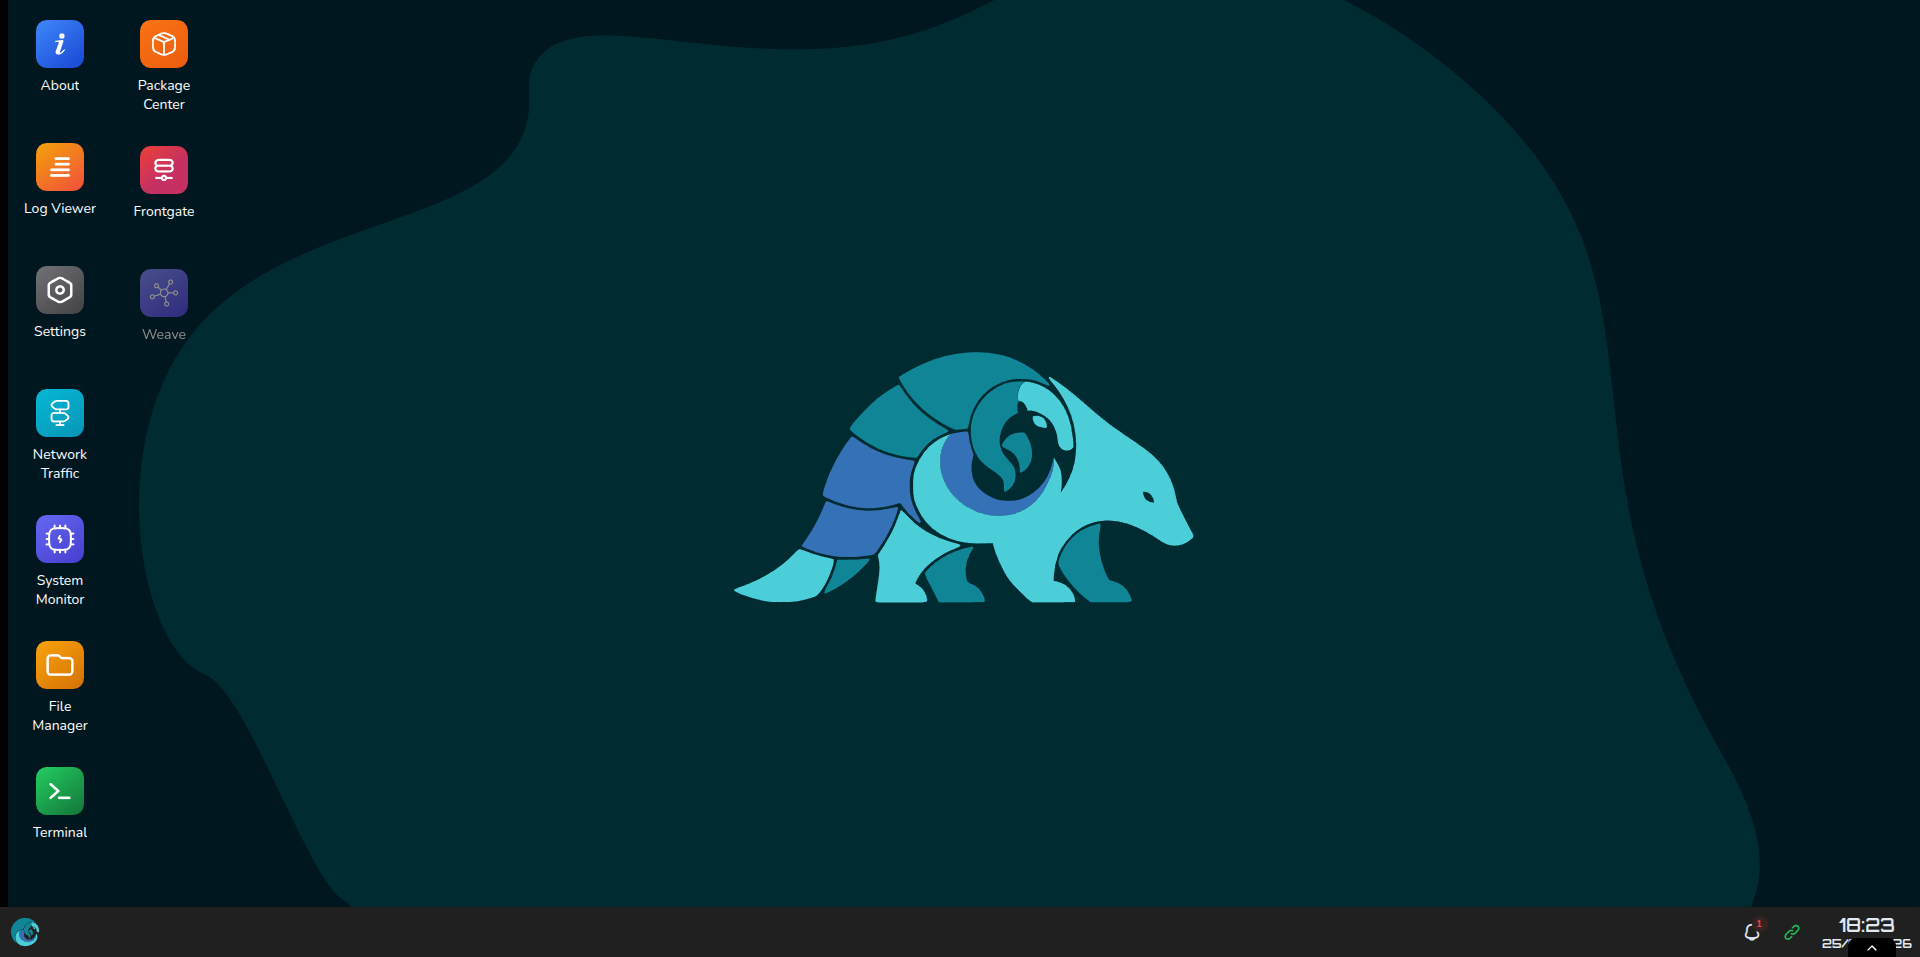
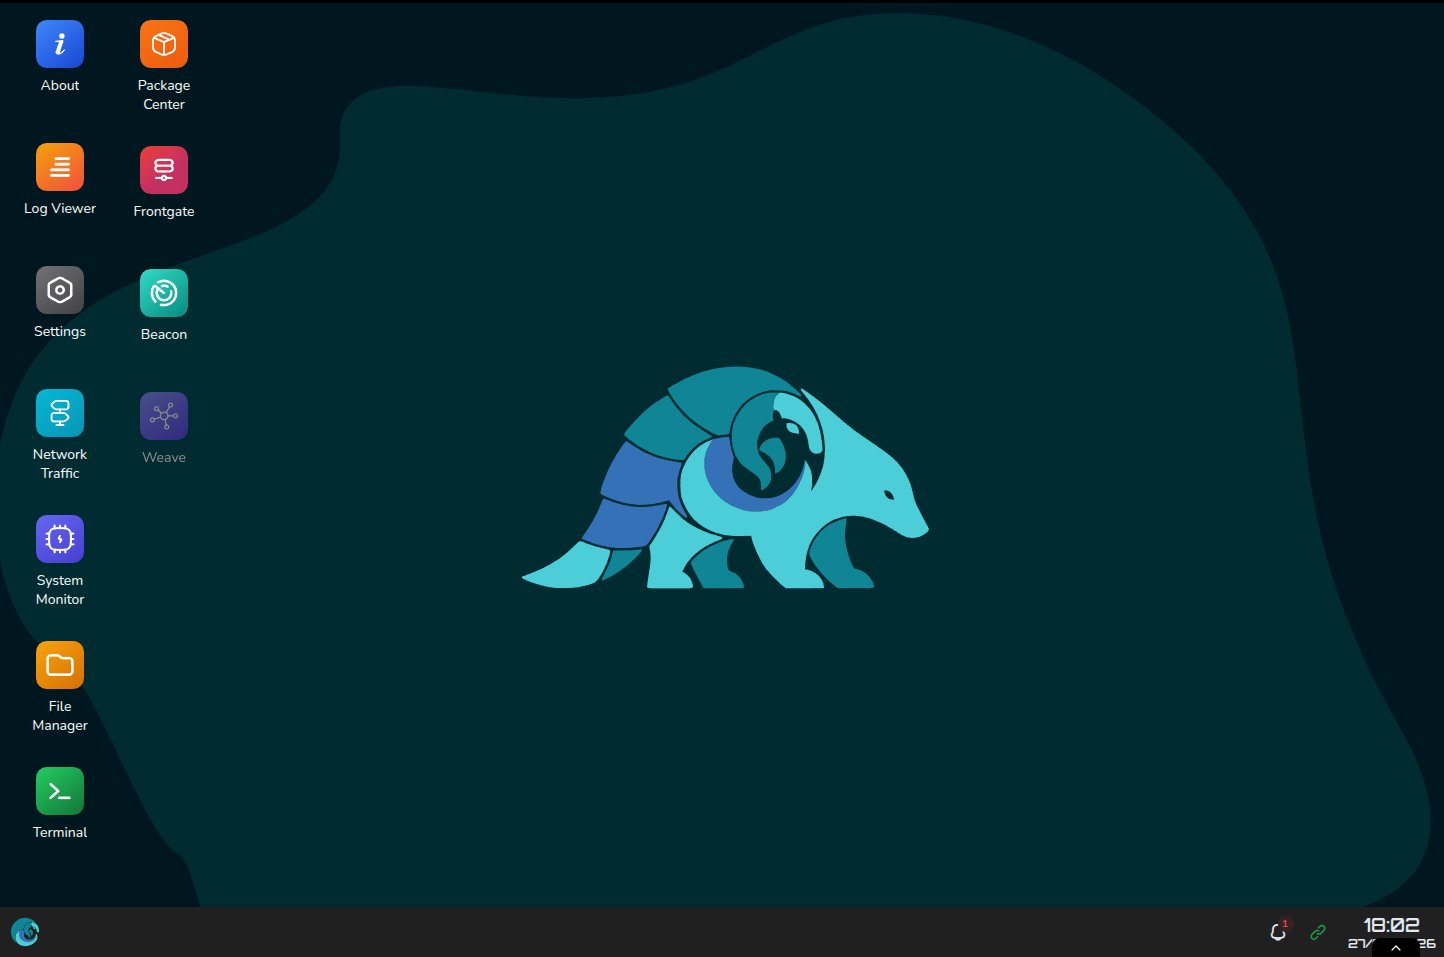
docs: update memory bank, README, and TODO for Frontgate Phase 2 + Beacon
- Add version history entries for NmxMenuButton divider, filterItem,
  FgCertPendingResetWorker, Beacon addon
- Update progress.md version table
- Update activeContext.md Recent Changes
- Add Beacon to system addons list and directory structure in README
- Update TODO.md with NmxMenuButton loading state entry
- Update screenshot

diff --git a/.claude/memory/progress.md b/.claude/memory/progress.md
@@ -136,12 +136,12 @@
 
 | Package | Version | Milestone |
 |---------|---------|-----------|
-| frontend | 0.64.0 | M4 (Frontgate Certificate tab, action menu, delete confirm) |
+| frontend | 0.66.0 | M4 (Frontgate cert filterItem, NmxMenuButton dividerIndexes, Beacon addon scaffold) |
 | @namorix/core | 0.51.0 | M4 (markupToHtml ReactNode, certificateById route, dateOnly) |
-| @namorix/styles | 0.43.0 | M4 (menu-button SCSS, icomoon rebuild, frontgate/blocked SCSS) |
-| @namorix/ui | 0.31.0 | M4 (NmxMenuButton Floating UI, NmxAlertDialog markupToHtml) |
+| @namorix/styles | 0.44.1 | M4 (menu button divider SCSS, button/frontgate tweaks) |
+| @namorix/ui | 0.33.0 | M4 (NmxMenuButton dividerIndexes prop, divider value+position) |
 | Namorix.Core | 0.52.0 | M4 (DataBasePath centralization, DataPaths constants) |
-| Namorix.Server | 0.55.0 | M4 (Certificate lifecycle API, pipeline separation, self-signed cert) |
+| Namorix.Server | 0.57.0 | M4 (FgCertPendingResetWorker, Pending→Error on startup) |
 
 ## Version Rules
 
@@ -177,6 +177,20 @@
 - frontend 0.63.0 → 0.64.0: NEW: `addons/Frontgate/FrontgateCertificate.tsx` — full certificate tab (NmxDataTable with domain/issuer/type/status-expiry/action columns, NmxMenuButton action menu with filterItem for Renew/Retry/Download/Delete, clickable rows → detail NmxAlertDialog with NmxMetaList, delete with confirmation dialog, toast feedback, renderType/renderStatus/renderExpiry helpers). NEW: `addons/Frontgate/Frontgate.types.ts` — FrontgateErrorCodes enum. MODIFIED: `addons/Frontgate/frontgate.controller.ts` — CertificateItem type with status/isInUse, deleteCertificate method, certificateById route. `addons/Frontgate/Frontgate.tsx` — minor updates. `i18n/locales/en.json` — 44-line certificate section (titleInformation, actions, fields, statusValues/inUseValues, options, feedback). `addons/Frontgate/FrontgateReverseProxy.tsx` — minor updates. Various taskbar/window files — unused import cleanup. `frontend/public/frontgate.html` — frontgate standalone landing page (nmx-card, nmx-meta-list, nmx-icon-box from theme system).
 - Namorix.Core 0.51.0 → 0.52.0: NEW: `Constants/DataPaths.cs` — central path constants. MODIFIED: `Config/AppConfig.cs` — DataBasePath property from appsettings. `Extensions/ApplicationBuilderExtensions.cs`, `Extensions/ServiceCollectionExtensions.cs` — DataBasePath integration. `FlatFile/FlatFileOptions.cs` — removed BasePath (uses shared DataBasePath). `FlatFile/FlatFileStore.cs` — DataDirectory integration. `IO/DataDirectory.cs` — uses AppConfig.DataBasePath.
 - Namorix.Server 0.54.0 → 0.55.0: NEW: `Models/FgCertificate.cs` — FgCertificateStatus enum (Active/Pending/Error) + Status property. `Infrastructure/SelfSignedCertificateProvider.cs` — auto-gen PFX when HttpsPort > 0 without SslCertPath, saves to data/pki/. `Migrations/20260727063316_AddFgCertificateStatus.cs` — adds Status column to FgCertificates. MODIFIED: `Controllers/FrontgateController.cs` — DeleteCertificate endpoint (DELETE /certificates/{id}), ListCertificates removed .ToString() (JsonStringEnumConverter handles serialization), added isInUse = ReverseProxyRules.Any(). `Persistence/AppDbContext.cs` — FgCertificateStatus config (HasConversion<string>, HasMaxLength(20)). `Program.cs` — pipeline separation (UseWhen: API port full pipeline, proxy ports only ForceSsl + YARP + static). `Config/BackendConfig.cs` — HttpPort, HttpsPort, SslCertPath, SslCertPassword. `appsettings.json` — HttpPort/HttpsPort config.
+
+### 2026-07-27 — Frontgate Phase 2: Certificate pagination, NmxSelect description, Source field
+
+- @namorix/ui 0.31.0 → 0.32.0: MODIFIED: `Primitives/NmxSelect.tsx` — `NmxSelectData` added `description?: string` field. `NmxSelect` renders `nmx-select__option-description` span in dropdown when description present.
+- @namorix/styles 0.43.0 → 0.44.0: MODIFIED: `base/components/select.scss` — `.nmx-select__option` `flex-direction: column`. New `.nmx-select__option-label` and `.nmx-select__option-description` selectors with `white-space: nowrap` / `text-overflow: ellipsis` / `overflow: hidden`. Description uses `--nmx-color-on-surface-variant`.
+- frontend 0.64.0 → 0.65.0: MODIFIED: `addons/Frontgate/FrontgateCertificate.tsx` — full pagination (NmxPagination, usePageSize, fetchCerts with page/size, useEffect deps, refresh onClick). `addons/Frontgate/FrontgateReverseProxy.tsx` — certificate dropdown options with description (None: "Disable SSL/TLS", Request New: "Auto-provision Let's Encrypt", existing: `{{issuer}} — Expires: {{expires}}`), `dateOnly` formatter, `listAllCertificates` returns paginated response. `addons/Frontgate/frontgate.controller.ts` — `listAllCertificates` returns `CertificateResponse` (`{ items, total }`). `i18n/locales/en.json` — 3 new `certificateOptions` keys.
+- Namorix.Server 0.55.0 → 0.56.0: MODIFIED: `Models/FgCertificate.cs` — added `FgCertificateSource` enum (LetsEncryptHttp, LetsEncryptDns, Custom) + `Source` property. `Persistence/AppDbContext.cs` — `FgCertificate.Source` config (HasConversion<string>, HasMaxLength(20)). `Controllers/FrontgateController.cs` — `ListCertificates` includes `source = c.Source` in response, pagination with page=0 default (flat array), page>0 returns `{ items, total }`. NEW migration `20260727091943_AddFgCertificateSource`.
+
+### 2026-07-27 — Frontgate Phase 2: NmxMenuButton divider refactor, filterItem, FgCertPendingResetWorker, LogViewer pagination
+
+- @namorix/ui 0.32.0 → 0.33.0: MODIFIED: `Primitives/NmxMenuButton.tsx` — divider refactor: removed `divider?: boolean` from `NmxMenuButtonOption`, added `dividerIndexes?: NmxMenuButtonDivider<T>[]` prop with `{ value: T, position: "top" | "bottom" }` approach (divider follows option by `value`, renders above/below). `filterItem` edge case: when no options remain, trigger button is hidden. Used `filteredOptions` intermediary for correct filtered rendering. `Primitives/NmxIcon/NmxIconSvg.types.ts` — added `APP_BEACON: "app-beacon"` symbol.
+- @namorix/styles 0.44.0 → 0.44.1: MODIFIED: `base/components/menu-button.scss` — added `.nmx-menu-button__divider` styles. `base/components/button.scss` — tweaks. `base/shell/addon/frontgate.scss` — frontgate style updates. `themes/dark/tokens.scss` — dark token adjustments. `base/tokens/icons.scss` — added `--nmx-icon-app-beacon` CSS variable.
+- frontend 0.65.0 → 0.66.0: MODIFIED: `addons/Frontgate/FrontgateCertificate.tsx` — filterItem 3-state logic (pending→delete only, error→retry+delete, other→renew+download+delete), `dividerIndexes={[{ value: "delete", position: "top" }]}` on action menu. `addons/Frontgate/FrontgateReverseProxy.tsx` — certificate dropdown with descriptions. `addons/LogViewer/LogViewer.tsx` — pagination repositioned below data table (before alert dialog). `i18n/locales/en.json` — 3 new certificateOptions description keys, 2 new beacon i18n keys. NEW: `addons/Beacon/` — Beacon addon scaffold (DNS updater, empty component). MODIFIED: `addons/index.ts` — added Beacon import. `addons/types.ts` — added `beacon` to NmxAddonId and NmxAddonLocaleKeys. NEW: `public/icons/app-beacon.svg` — Beacon icon.
+- Namorix.Server 0.56.0 → 0.57.0: NEW: `Workers/FgCertPendingResetWorker.cs` — one-shot BackgroundService: on startup, resets all `FgCertificateStatus.Pending` → `Error` via `ExecuteUpdateAsync`. MODIFIED: `Program.cs` — registered `FgCertPendingResetWorker` as hosted service.
 
 ### 2026-07-25 — Frontgate addon scaffold, APP_FRONTGATE icon symbol
 

diff --git a/.claude/memory/activeContext.md b/.claude/memory/activeContext.md
@@ -27,6 +27,13 @@ M4 — External Addon System ✅ Complete
 
 Xem chi tiết tại [versionHistory-06-2026.md](versionHistory-06-2026.md) và [versionHistory-05-2026.md](../archive/versionHistory-05-2026.md).
 
+### 2026-07-27 — Frontgate Phase 2: NmxMenuButton divider refactor, filterItem, FgCertPendingResetWorker
+
+- @namorix/ui 0.32.0 → 0.33.0: NmxMenuButton dividerIndexes prop refactor — replaced `divider?: boolean` on option with `dividerIndexes?: { value, position }[]` on props. Divider follows option by value, renders above/below. filterItem edge case: no options → hide trigger. NEW `APP_BEACON` icon symbol.
+- @namorix/styles 0.44.0 → 0.44.1: Menu button divider SCSS styles, button/frontgate/dark tokens tweaks. NEW `--nmx-icon-app-beacon` icon token.
+- frontend 0.65.0 → 0.66.0: FrontgateCertificate 3-state filterItem (pending→delete only, error→retry+delete, other→renew+download+delete). dividerIndexes on action menu. LogViewer pagination repositioned (below data table). NEW internal addon **Beacon** (DNS updater — scaffold). Beacon i18n keys, app-beacon.svg icon, addon registration.
+- Namorix.Server 0.56.0 → 0.57.0: NEW FgCertPendingResetWorker — one-shot BackgroundService resetting Pending→Error on startup.
+
 ### 2026-07-26 — Frontgate Phase 1: Edit dialog, delete confirm, ForceSsl middleware, port 80/443
 
 - @namorix/core 0.49.0 → 0.50.0: NEW `formatCustomError` with `codeMap` parameter for error code → i18n translation mapping.
@@ -413,6 +420,13 @@ Cả 3 attribute filter (`RequireAuthAttribute`, `RequireAdminAttribute`, `Requi
 - frontend 0.63.0 → 0.64.0: Full Frontgate Certificate tab — NmxDataTable, NmxMenuButton action menu (Renew/Retry/Download/Delete), info dialog on row click, delete confirm with toast. certificateById API route. i18n certificate section (44 lines). frontgate.html landing page.
 - Namorix.Core 0.51.0 → 0.52.0: DataPaths constants. DataBasePath centralization. FlatFileOptions BasePath removed (shared path).
 - Namorix.Server 0.54.0 → 0.55.0: FgCertificateStatus enum + migration. DeleteCertificate endpoint. ListCertificates fix. Pipeline separation (UseWhen). SelfSignedCertificateProvider. BackendConfig HttpPort/HttpsPort.
+
+### 2026-07-27 — Frontgate Phase 2: Certificate pagination, NmxSelect description, Source field
+
+- @namorix/ui 0.31.0 → 0.32.0: NmxSelectData added `description` field. NmxSelect renders description in dropdown.
+- @namorix/styles 0.43.0 → 0.44.0: New `.nmx-select__option-label`/`-description` selectors. Option `flex-direction: column`.
+- frontend 0.64.0 → 0.65.0: Certificate tab pagination (NmxPagination, usePageSize). Certificate dropdown options with description (None/Request New/existing with issuer+expiry). listAllCertificates returns CertificateResponse.
+- Namorix.Server 0.55.0 → 0.56.0: FgCertificateSource enum + Source column. ListCertificates pagination (page≤0 flat array, page>0 paginated).
 
 ### 2026-07-27 — Frontgate Phase 2: Pipeline separation, self-signed cert, frontgate.html landing page
 

diff --git a/README.md b/README.md
@@ -11,7 +11,7 @@ Browser-based desktop shell, self-hosted.
 ## Features
 
 - **Desktop Shell** — Window manager, taskbar, launcher, desktop icon shortcuts
-- **System Addons** — Built-in addons (About, NetworkTraffic, Log Viewer, Settings, SystemMonitor, File Manager, Terminal, Package Center, Frontgate) via addon contract
+- **System Addons** — Built-in addons (About, NetworkTraffic, Log Viewer, Settings, SystemMonitor, File Manager, Terminal, Package Center, Frontgate, Beacon) via addon contract
 - **Reverse Proxy** — YARP-based reverse proxy management (Frontgate): route traffic to addons via custom domains, SSL termination, WebSocket support, access control
 - **External Addons** — Docker-based addons with widget (Module Federation mount) and standalone (OAuth PKCE, own server) modes
 - **Centralized Auth** — Single auth server for shell and addons, OAuth2 authorization server (authorization_code + PKCE, client_credentials + private_key_jwt)
@@ -147,6 +147,7 @@ namorix/
 │       ├── addons/           # Built-in addon registry + implementations
 │       │   ├── registry.ts   # registerAddon, resolveAddon, listAddons
 │       │   ├── About/           # About Namorix (version, meta, GitHub links)
+│       │   ├── Beacon/          # DNS updater — updates DNS when IP changes
 │       │   ├── FileManager/     # File browser scaffold
 │       │   ├── Frontgate/       # Reverse proxy management (YARP integration, CRUD UI, routing rules)
 │       │   ├── LogViewer/       # Level filter chips + multi-select, paginated table

diff --git a/.claude/TODO.md b/.claude/TODO.md
@@ -1,5 +1,22 @@
 # TODO
 
+## NmxMenuButton — Divider by index, loading state
+
+**Context**: Hiện tại divider gắn trên option (`divider: true`), khi filter ẩn option thì divider bị lệch. Cần chuyển sang cơ chế `dividerIndexes` (số âm từ dưới lên). Ngoài ra thiếu loading state trên NmxMenuButton.
+
+**Approach**:
+- Thay `divider?: boolean` trong `NmxMenuButtonOption` bằng `dividerIndexes?: number[]` trên props
+- Số dương = index trong filtered list từ trên xuống
+- Số âm = đếm từ dưới lên (vd -1 = trước item cuối)
+- Thêm `loading?: boolean` prop, khi loading disabled button + ẩn dropdown
+- `filterItem` edge case: khi không còn option nào → ẩn luôn cả trigger button
+
+**Files**:
+- `frontend/packages/ui/src/Primitives/NmxMenuButton.tsx`
+- `frontend/src/addons/Frontgate/FrontgateCertificate.tsx`
+
+---
+
 ## NmxOAuth2Client — Block infinite retry on invalid_client
 
 **Context**: Khi DB backend bị reset (migration, xoá bảng), `AddonInstallations` mất record OAuth → `IssueClientCredentialsTokenAsync` trả về `400 invalid_client`. Addon retry vô hạn mỗi 5 giây vì `_cached` không bao giờ được set → spam DB query + log.
